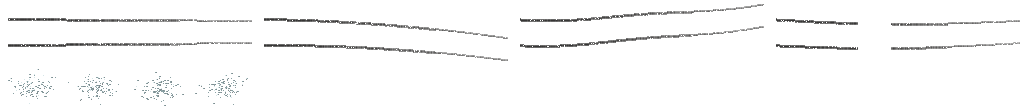
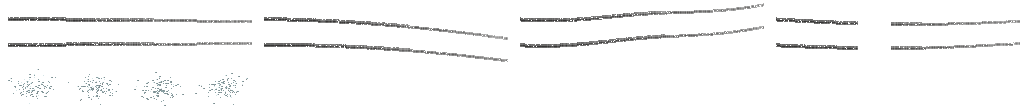
1.64 (work in progress): skid marks and glass by the cars
Claude-Session: https://claude.ai/code/session_01Q3d652Ep37MrDZiN13QEse

diff --git a/tools/road_marks_v1.py b/tools/road_marks_v1.py
@@ -44,7 +44,7 @@ def skid(kind, seed):
             y += side * track / 2 * (1 - 0.15 * t)
             # heavier where the tyre bit first, fading toward the stop
             dark = 0.9 - 0.45 * t + r.uniform(-0.12, 0.12)
-            w = 3 if t < 0.7 else 2
+            w = 4 if t < 0.6 else 3
             for k in range(w):
                 yy = int(round(y)) + k - w // 2
                 if 0 <= yy < SH and r.random() < 0.93:

diff --git a/RELEASE_1640_RU.md b/RELEASE_1640_RU.md
@@ -1,0 +1,18 @@
+# ОСТАТОК 1.64.0 — Следы последнего дня
+
+## Машины на дорогах с историей
+
+Брошенные машины стояли на улицах так, будто их аккуратно припарковали.
+Теперь у части из них за кормой остались чёрные тормозные следы шин —
+прямые, с заносом влево или вправо, прерывистые, где колесо подпрыгнуло.
+След темнее там, где шина начала скользить, и бледнеет к месту остановки.
+Около других машин на асфальте рассыпано битое автостекло.
+
+Следы лежат на дороге под машиной, только у машин, стоящих вдоль улицы,
+и только там, где весь след помещается на проезжей части.
+
+## Проверка
+
+- `test_ground_details_dev90`: следы и стекло есть, лежат плоско на
+  дороге, следы повёрнуты только на четверть оборота.
+- Полный набор тестов.
